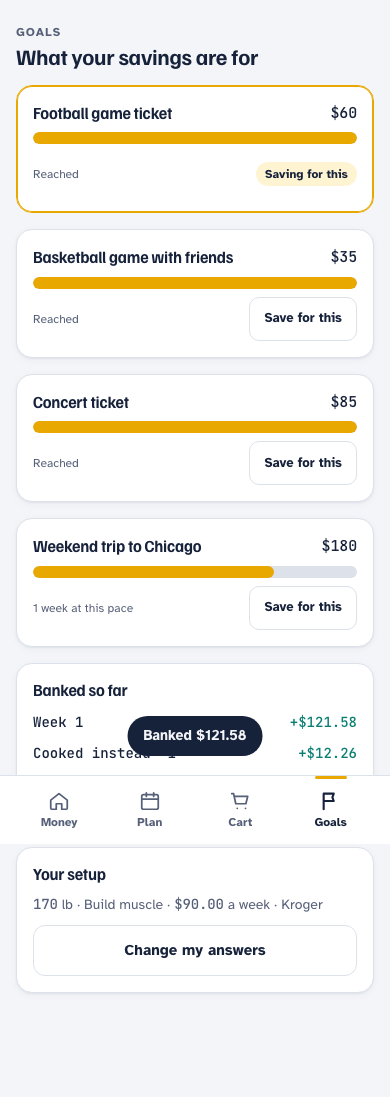
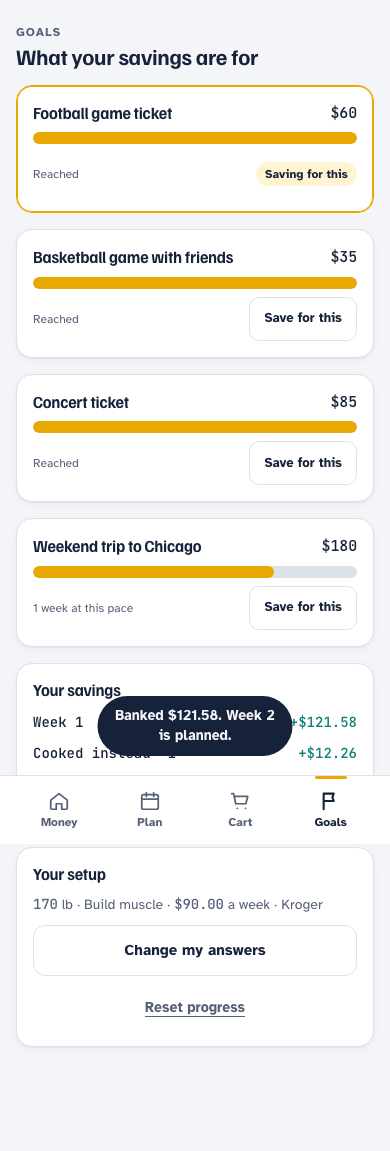
Goals reset when reached, and each week gets a fresh plan
- Reaching a goal shows "Goal reached" with a claim button; claiming spends
  the goal amount and carries leftover savings to the next one
- Finishing a week banks the savings and builds a new plan for next week
- Goals tab: savings history shows the last four weeks plus a summary,
  repeat claims are grouped, and "Reset progress" (with confirm) starts over

Changed region(s): [[0.0308, 0.0, 0.9538, 0.4339], [0.0923, 0.5889, 0.9231, 0.8988], [0.0615, 0.4649, 0.9231, 0.5579]]

diff --git a/frontend/src/screens/Goals.tsx b/frontend/src/screens/Goals.tsx
@@ -1,6 +1,7 @@
+import { useState } from "react";
 import { ProgressBar } from "../components/ProgressBar";
 import { money, moneyShort, plural, weeksToGoal } from "../format";
-import type { BankedWeek } from "../store";
+import type { BankedWeek, ClaimedGoal } from "../store";
 import type { Catalog, Profile } from "../types";
 
 interface GoalsProps {
@@ -9,12 +10,16 @@ interface GoalsProps {
   bankedCents: number;
   weeklySavedCents: number;
   history: BankedWeek[];
+  claimed: ClaimedGoal[];
   cookedInstead: number;
   cookedSavedCents: number;
   storeName: string;
   onChooseGoal: (id: string) => void;
+  onReset: () => void;
   onEditProfile: () => void;
 }
+
+const RECENT_WEEKS = 4;
 
 export function Goals({
   catalog,
@@ -22,12 +27,26 @@ export function Goals({
   bankedCents,
   weeklySavedCents,
   history,
+  claimed,
   cookedInstead,
   cookedSavedCents,
   storeName,
   onChooseGoal,
+  onReset,
   onEditProfile,
 }: GoalsProps) {
+  const [confirmingReset, setConfirmingReset] = useState(false);
+  const recent = history.slice(-RECENT_WEEKS);
+  const earlier = history.slice(0, -RECENT_WEEKS);
+  const earlierCents = earlier.reduce((sum, entry) => sum + entry.savedCents, 0);
+  const hasActivity = history.length > 0 || cookedInstead > 0 || claimed.length > 0;
+  // One line per goal, however many times it was claimed.
+  const spent = new Map<string, { count: number; cents: number }>();
+  for (const goal of claimed) {
+    const entry = spent.get(goal.name) ?? { count: 0, cents: 0 };
+    spent.set(goal.name, { count: entry.count + 1, cents: entry.cents + goal.costCents });
+  }
+
   return (
     <div className="flex flex-col gap-4">
       <div>
@@ -35,7 +54,7 @@ export function Goals({
         <h2>What your savings are for</h2>
       </div>
 
-      {bankedCents === 0 && (
+      {!hasActivity && (
         <p className="text-muted text-sm">
           Nothing banked yet. Finish your week on the Money tab and the savings land here.
         </p>
@@ -80,10 +99,18 @@ export function Goals({
         );
       })}
 
-      {bankedCents > 0 && (
-        <section className="card flex flex-col gap-1" aria-label="Banked so far">
-          <h3 className="mb-1">Banked so far</h3>
-          {history.map((entry) => (
+      {hasActivity && (
+        <section className="card flex flex-col gap-1" aria-label="Your savings">
+          <h3 className="mb-1">Your savings</h3>
+          {earlier.length > 0 && (
+            <div className="rline">
+              <span>
+                Weeks {earlier[0]?.week}–{earlier[earlier.length - 1]?.week}
+              </span>
+              <span className="text-teal">+{money(earlierCents)}</span>
+            </div>
+          )}
+          {recent.map((entry) => (
             <div key={entry.week} className="rline">
               <span>Week {entry.week}</span>
               <span className="text-teal">+{money(entry.savedCents)}</span>
@@ -95,8 +122,17 @@ export function Goals({
               <span className="text-teal">+{money(cookedSavedCents)}</span>
             </div>
           )}
+          {[...spent.entries()].map(([name, entry]) => (
+            <div key={name} className="rline">
+              <span className="min-w-0 truncate">
+                {name}
+                {entry.count > 1 && ` ×${entry.count}`}
+              </span>
+              <span>−{money(entry.cents)}</span>
+            </div>
+          ))}
           <div className="rline rline-total">
-            <span>Total</span>
+            <span>Available now</span>
             <span>{money(bankedCents)}</span>
           </div>
         </section>
@@ -111,6 +147,43 @@ export function Goals({
         <button type="button" className="btn btn-ghost" onClick={onEditProfile}>
           Change my answers
         </button>
+        {confirmingReset ? (
+          <div className="bg-warn-soft flex flex-col gap-2.5 rounded-xl p-3" role="alert">
+            <p className="text-sm">
+              This clears your savings and goal history and starts again at week 1. Your answers and
+              meal plan stay.
+            </p>
+            <div className="grid grid-cols-2 gap-2">
+              <button
+                type="button"
+                className="btn btn-ghost"
+                onClick={() => setConfirmingReset(false)}
+              >
+                Cancel
+              </button>
+              <button
+                type="button"
+                className="btn bg-warn text-white dark:text-[#16213a]"
+                onClick={() => {
+                  setConfirmingReset(false);
+                  onReset();
+                }}
+              >
+                Reset
+              </button>
+            </div>
+          </div>
+        ) : (
+          hasActivity && (
+            <button
+              type="button"
+              className="text-muted min-h-11 text-sm font-bold underline underline-offset-4"
+              onClick={() => setConfirmingReset(true)}
+            >
+              Reset progress
+            </button>
+          )
+        )}
       </section>
     </div>
   );

diff --git a/frontend/src/App.tsx b/frontend/src/App.tsx
@@ -12,10 +12,11 @@ import { Money } from "./screens/Money";
 import { Onboarding } from "./screens/Onboarding";
 import { Plan, dayProtein } from "./screens/Plan";
 import { QuickMealSheet } from "./screens/QuickMealSheet";
-import { todayIndex, useSavedState } from "./store";
+import { resetProgress, todayIndex, useSavedState } from "./store";
 import type {
   Catalog,
   Evaluation,
+  FunGoal,
   MealSummary,
   PlanResponse,
   Profile,
@@ -168,15 +169,34 @@ export function App() {
     reprice(profile, days, saved.useSample);
   }
 
+  /** Bank this week's savings and start next week with a fresh plan. */
   function bank(savedCents: number) {
+    if (!profile) return;
     const amount = Math.max(0, savedCents);
+    const nextWeek = saved.week + 1;
     setSaved((s) => ({
       ...s,
       bankedCents: s.bankedCents + amount,
       history: [...s.history, { week: s.week, savedCents: amount }],
       week: s.week + 1,
+      planDay: todayIndex(),
     }));
-    toast.show(`Banked ${money(amount)}`);
+    toast.show(`Banked ${money(amount)}. Week ${nextWeek} is planned.`);
+    const seed = Math.floor(Math.random() * 1_000_000);
+    api.plan(profile, saved.useSample, seed, plan?.days).then(
+      (response) => applyPlan(response, profile, saved.useSample),
+      () => toast.show(`Banked ${money(amount)}. Keeping this week's meals.`),
+    );
+  }
+
+  /** Spend the goal amount; leftover savings carry over toward the next one. */
+  function claim(goal: FunGoal) {
+    setSaved((s) => ({
+      ...s,
+      bankedCents: Math.max(0, s.bankedCents - goal.cost_cents),
+      claimed: [...s.claimed, { name: goal.name, costCents: goal.cost_cents, week: s.week }],
+    }));
+    toast.show("Enjoy it. Leftover savings now go toward the next one.");
   }
 
   function cook(meal: QuickMeal, goalName: string) {
@@ -296,6 +316,7 @@ export function App() {
           bankedCents={saved.bankedCents}
           weeklySavedCents={data.money.saved_cents}
           history={saved.history}
+          claimed={saved.claimed}
           cookedInstead={saved.cookedInstead}
           cookedSavedCents={saved.cookedSavedCents}
           storeName={data.price_source.store}
@@ -303,6 +324,10 @@ export function App() {
             setSaved((s) => (s.profile ? { ...s, profile: { ...s.profile, funGoalId: id } } : s));
             const name = cat.fun_goals.find((g) => g.id === id)?.name ?? "";
             toast.show(`Now saving for ${name}`);
+          }}
+          onReset={() => {
+            setSaved(resetProgress);
+            toast.show("Progress reset. You're back to week 1.");
           }}
           onEditProfile={() => {
             setBuildError(null);
@@ -325,6 +350,7 @@ export function App() {
           todayProteinG={dayProtein(plan.days[todayIndex()], mealsById)}
           onQuickMeal={() => setQuickOpen(true)}
           onBank={() => bank(data.money.saved_cents)}
+          onClaim={() => claim(funGoal)}
         />
         {quickOpen && (
           <QuickMealSheet

diff --git a/frontend/src/screens/Money.tsx b/frontend/src/screens/Money.tsx
@@ -14,6 +14,7 @@ interface MoneyProps {
   todayProteinG: number;
   onQuickMeal: () => void;
   onBank: () => void;
+  onClaim: () => void;
 }
 
 export function Money({
@@ -27,15 +28,21 @@ export function Money({
   todayProteinG,
   onQuickMeal,
   onBank,
+  onClaim,
 }: MoneyProps) {
   const m = evaluation.money;
   const bowl = catalog.bowl_price_cents;
   const bankable = Math.max(0, m.saved_cents);
   const reached = bankedCents >= funGoal.cost_cents;
   const weeksLeft = weeksToGoal(funGoal.cost_cents, bankedCents, m.saved_cents);
+  const leftover = Math.max(0, bankedCents - funGoal.cost_cents);
   let pace = `About ${plural(weeksLeft ?? 0, "more week")} at this pace.`;
-  if (reached) pace = "Goal reached. Go get that ticket.";
-  else if (weeksLeft === null) pace = "Bank a week of savings to start filling this.";
+  if (reached) {
+    pace =
+      leftover > 0
+        ? `You saved enough. The extra ${money(leftover)} carries over to your next goal.`
+        : "You saved exactly enough.";
+  } else if (weeksLeft === null) pace = "Bank a week of savings to start filling this.";
   const over = m.over_budget_cents > 0;
 
   return (
@@ -93,14 +100,19 @@ export function Money({
         total={{ label: "Saved this week", value: money(m.saved_cents), tone: "save" }}
       />
 
-      <section className="card flex flex-col gap-3" aria-label="Savings goal">
+      <section
+        className={`card flex flex-col gap-3 ${reached ? "border-maize! bg-maize-soft!" : ""}`}
+        aria-label="Savings goal"
+      >
         <div className="flex items-center justify-between gap-3">
           <div>
-            <span className="eyebrow">Saving for</span>
+            <span className={`eyebrow ${reached ? "text-ink!" : ""}`}>
+              {reached ? "Goal reached" : "Saving for"}
+            </span>
             <h3>{funGoal.name}</h3>
           </div>
-          <span className="chip chip-maize num">
-            {money(bankedCents)} / {moneyShort(funGoal.cost_cents)}
+          <span className="chip chip-maize num bg-surface!">
+            {money(Math.min(bankedCents, funGoal.cost_cents))} / {moneyShort(funGoal.cost_cents)}
           </span>
         </div>
         <ProgressBar
@@ -109,7 +121,12 @@ export function Money({
           label={`Saved toward ${funGoal.name}`}
           spring
         />
-        <p className="text-muted text-sm">{pace}</p>
+        <p className={`text-sm ${reached ? "text-ink" : "text-muted"}`}>{pace}</p>
+        {reached && (
+          <button type="button" className="btn btn-primary" onClick={onClaim}>
+            Claim your {funGoal.name.toLowerCase()}
+          </button>
+        )}
         <button type="button" className="btn btn-ghost" onClick={onBank}>
           Finish week {week} and bank <span className="num">{money(bankable)}</span>
         </button>

diff --git a/frontend/src/store.ts b/frontend/src/store.ts
@@ -9,6 +9,13 @@ export interface BankedWeek {
   savedCents: number;
 }
 
+/** A goal the user saved up for and spent. */
+export interface ClaimedGoal {
+  name: string;
+  costCents: number;
+  week: number;
+}
+
 /** Everything we remember between visits. Prices are re-fetched, never stored. */
 export interface SavedState {
   profile: Profile | null;
@@ -19,6 +26,7 @@ export interface SavedState {
   cookedInstead: number;
   cookedSavedCents: number;
   history: BankedWeek[];
+  claimed: ClaimedGoal[];
   tab: Tab;
   planDay: number;
   useSample: boolean;
@@ -33,6 +41,7 @@ export const initialState: SavedState = {
   cookedInstead: 0,
   cookedSavedCents: 0,
   history: [],
+  claimed: [],
   tab: "money",
   planDay: todayIndex(),
   useSample: false,
@@ -51,6 +60,19 @@ function load(): SavedState {
   } catch {
     return initialState;
   }
+}
+
+/** Clears savings and goes back to week 1, keeping the user's answers and plan. */
+export function resetProgress(state: SavedState): SavedState {
+  return {
+    ...state,
+    bankedCents: 0,
+    week: 1,
+    cookedInstead: 0,
+    cookedSavedCents: 0,
+    history: [],
+    claimed: [],
+  };
 }
 
 /** App state that survives reloads. Storage failures are ignored, the app still works. */
